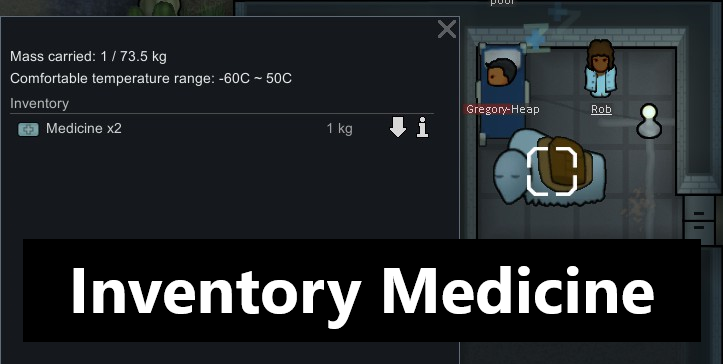
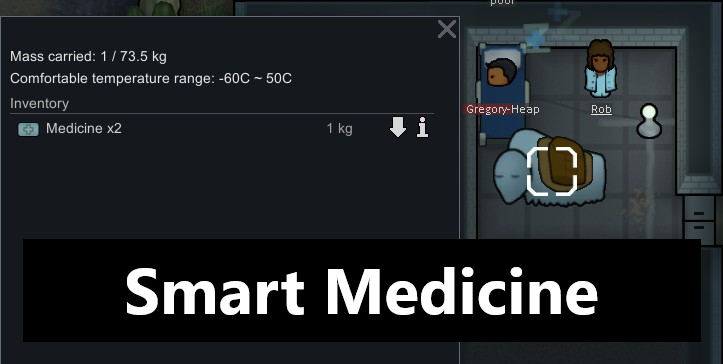
Rename to Smart Medicine, for there will be more features that aren't just inventory

Changed region(s): [[0.0913, 0.7253, 0.9129, 0.9066]]

diff --git a/Source/SmartMedicine.cs b/Source/SmartMedicine.cs
@@ -3,7 +3,7 @@ using Verse;
 using UnityEngine;
 using Harmony;
 
-namespace InventoryMedicine
+namespace SmartMedicine
 {
     public class Mod : Verse.Mod
     {
@@ -14,7 +14,7 @@ namespace InventoryMedicine
 #if DEBUG
             HarmonyInstance.DEBUG = true;
 #endif
-            HarmonyInstance harmony = HarmonyInstance.Create("uuugggg.rimworld.inventorymedicine.main");
+            HarmonyInstance harmony = HarmonyInstance.Create("uuugggg.rimworld.SmartMedicine.main");
             harmony.PatchAll(Assembly.GetExecutingAssembly());
 
             harmony.Patch(AccessTools.Property(typeof(MapPawns), nameof(MapPawns.AllPawnsSpawned)).GetGetMethod(false),
@@ -35,7 +35,7 @@ namespace InventoryMedicine
 
         public override string SettingsCategory()
         {
-            return "Inventory Medicine";
+            return "Smart Medicine";
         }
     }
 }

diff --git a/Source/Properties/AssemblyInfo.cs b/Source/Properties/AssemblyInfo.cs
@@ -5,11 +5,11 @@ using System.Runtime.InteropServices;
 // General Information about an assembly is controlled through the following
 // set of attributes. Change these attribute values to modify the information
 // associated with an assembly.
-[assembly: AssemblyTitle("InventoryMedicine")]
+[assembly: AssemblyTitle("Smart Medicine")]
 [assembly: AssemblyDescription("")]
 [assembly: AssemblyConfiguration("")]
 [assembly: AssemblyCompany("")]
-[assembly: AssemblyProduct("InventoryMedicine")]
+[assembly: AssemblyProduct("Smart Medicine")]
 [assembly: AssemblyCopyright("Copyright ©  2018")]
 [assembly: AssemblyTrademark("")]
 [assembly: AssemblyCulture("")]

diff --git a/Source/Settings.cs b/Source/Settings.cs
@@ -3,7 +3,7 @@ using System.Collections.Generic;
 using UnityEngine;
 using Verse;
 
-namespace InventoryMedicine
+namespace SmartMedicine
 {
     class Settings : ModSettings
     {
@@ -24,7 +24,7 @@ namespace InventoryMedicine
 
         public static Settings Get()
         {
-            return LoadedModManager.GetMod<InventoryMedicine.Mod>().GetSettings<Settings>();
+            return LoadedModManager.GetMod<SmartMedicine.Mod>().GetSettings<Settings>();
         }
 
         public void DoWindowContents(Rect rect)

diff --git a/Source/GamePatches.cs b/Source/GamePatches.cs
@@ -4,7 +4,7 @@ using System.Linq;
 using System.Text;
 using Verse;
 
-namespace InventoryMedicine
+namespace SmartMedicine
 {
     static class HarmonyPatches
     {

diff --git a/Source/MedicineGrabbing.cs b/Source/MedicineGrabbing.cs
@@ -10,7 +10,7 @@ using Verse.AI;
 using Harmony;
 
 
-namespace InventoryMedicine
+namespace SmartMedicine
 {
 
     static class Log
